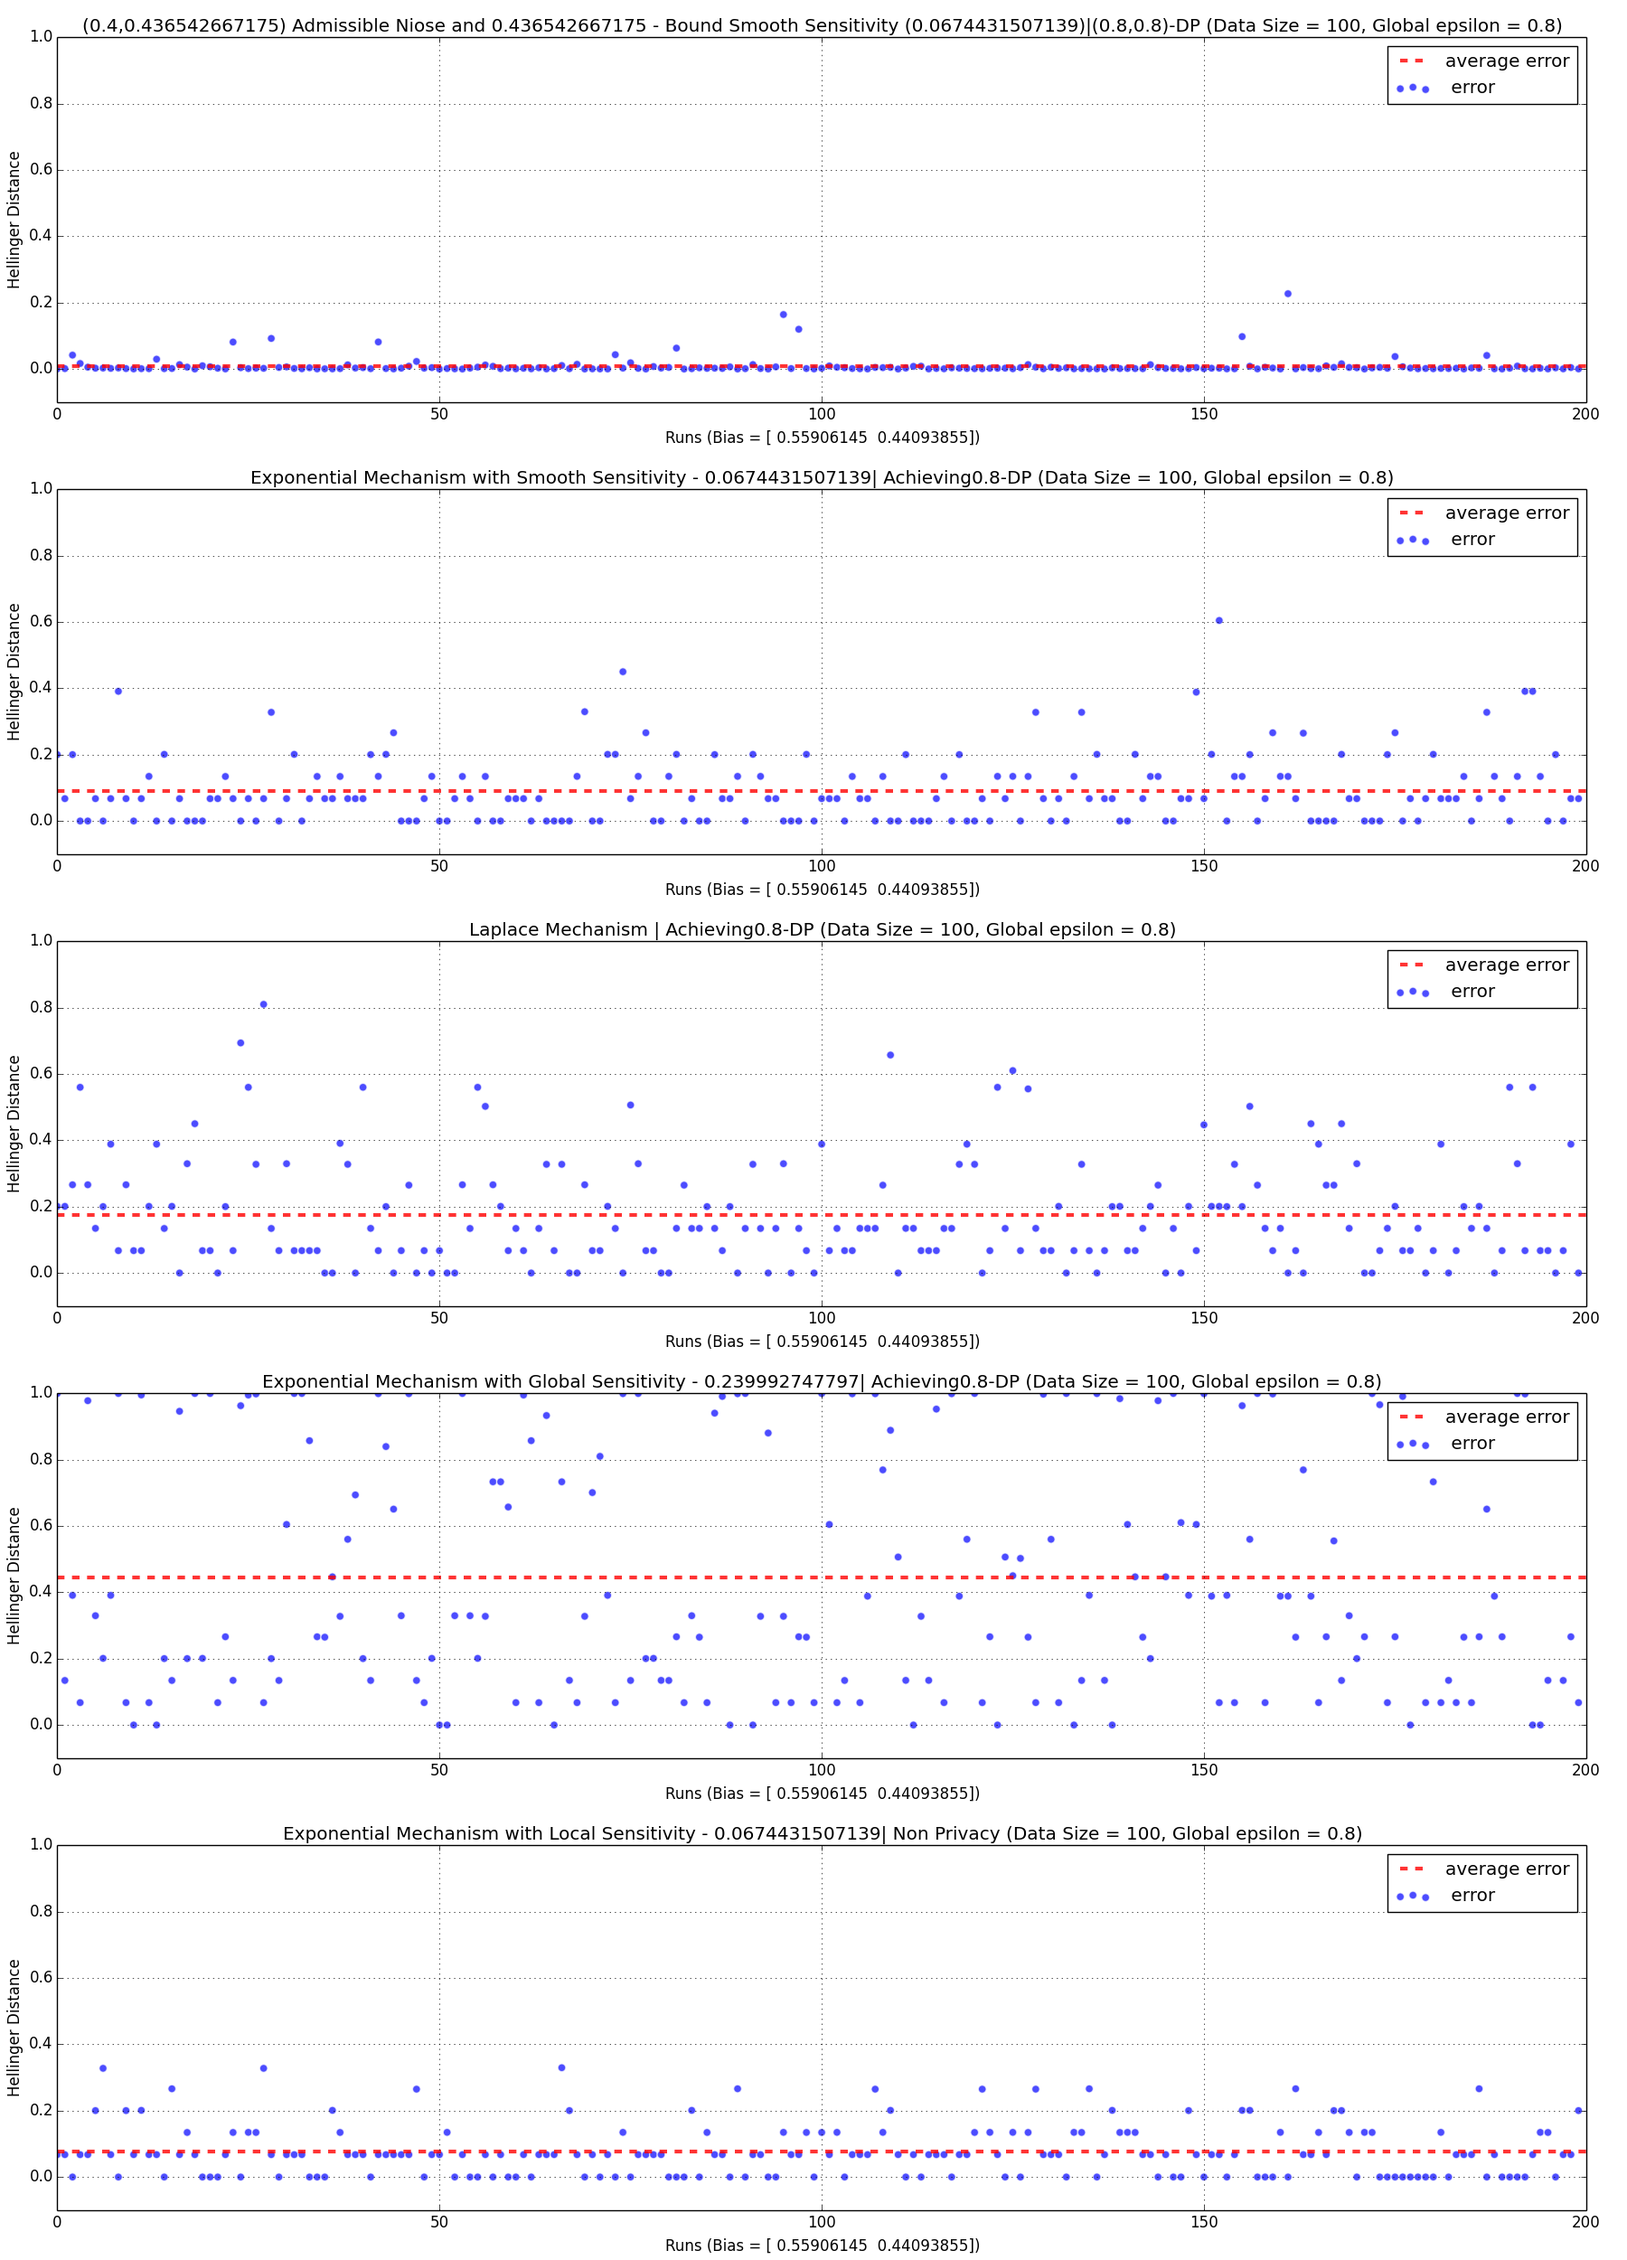
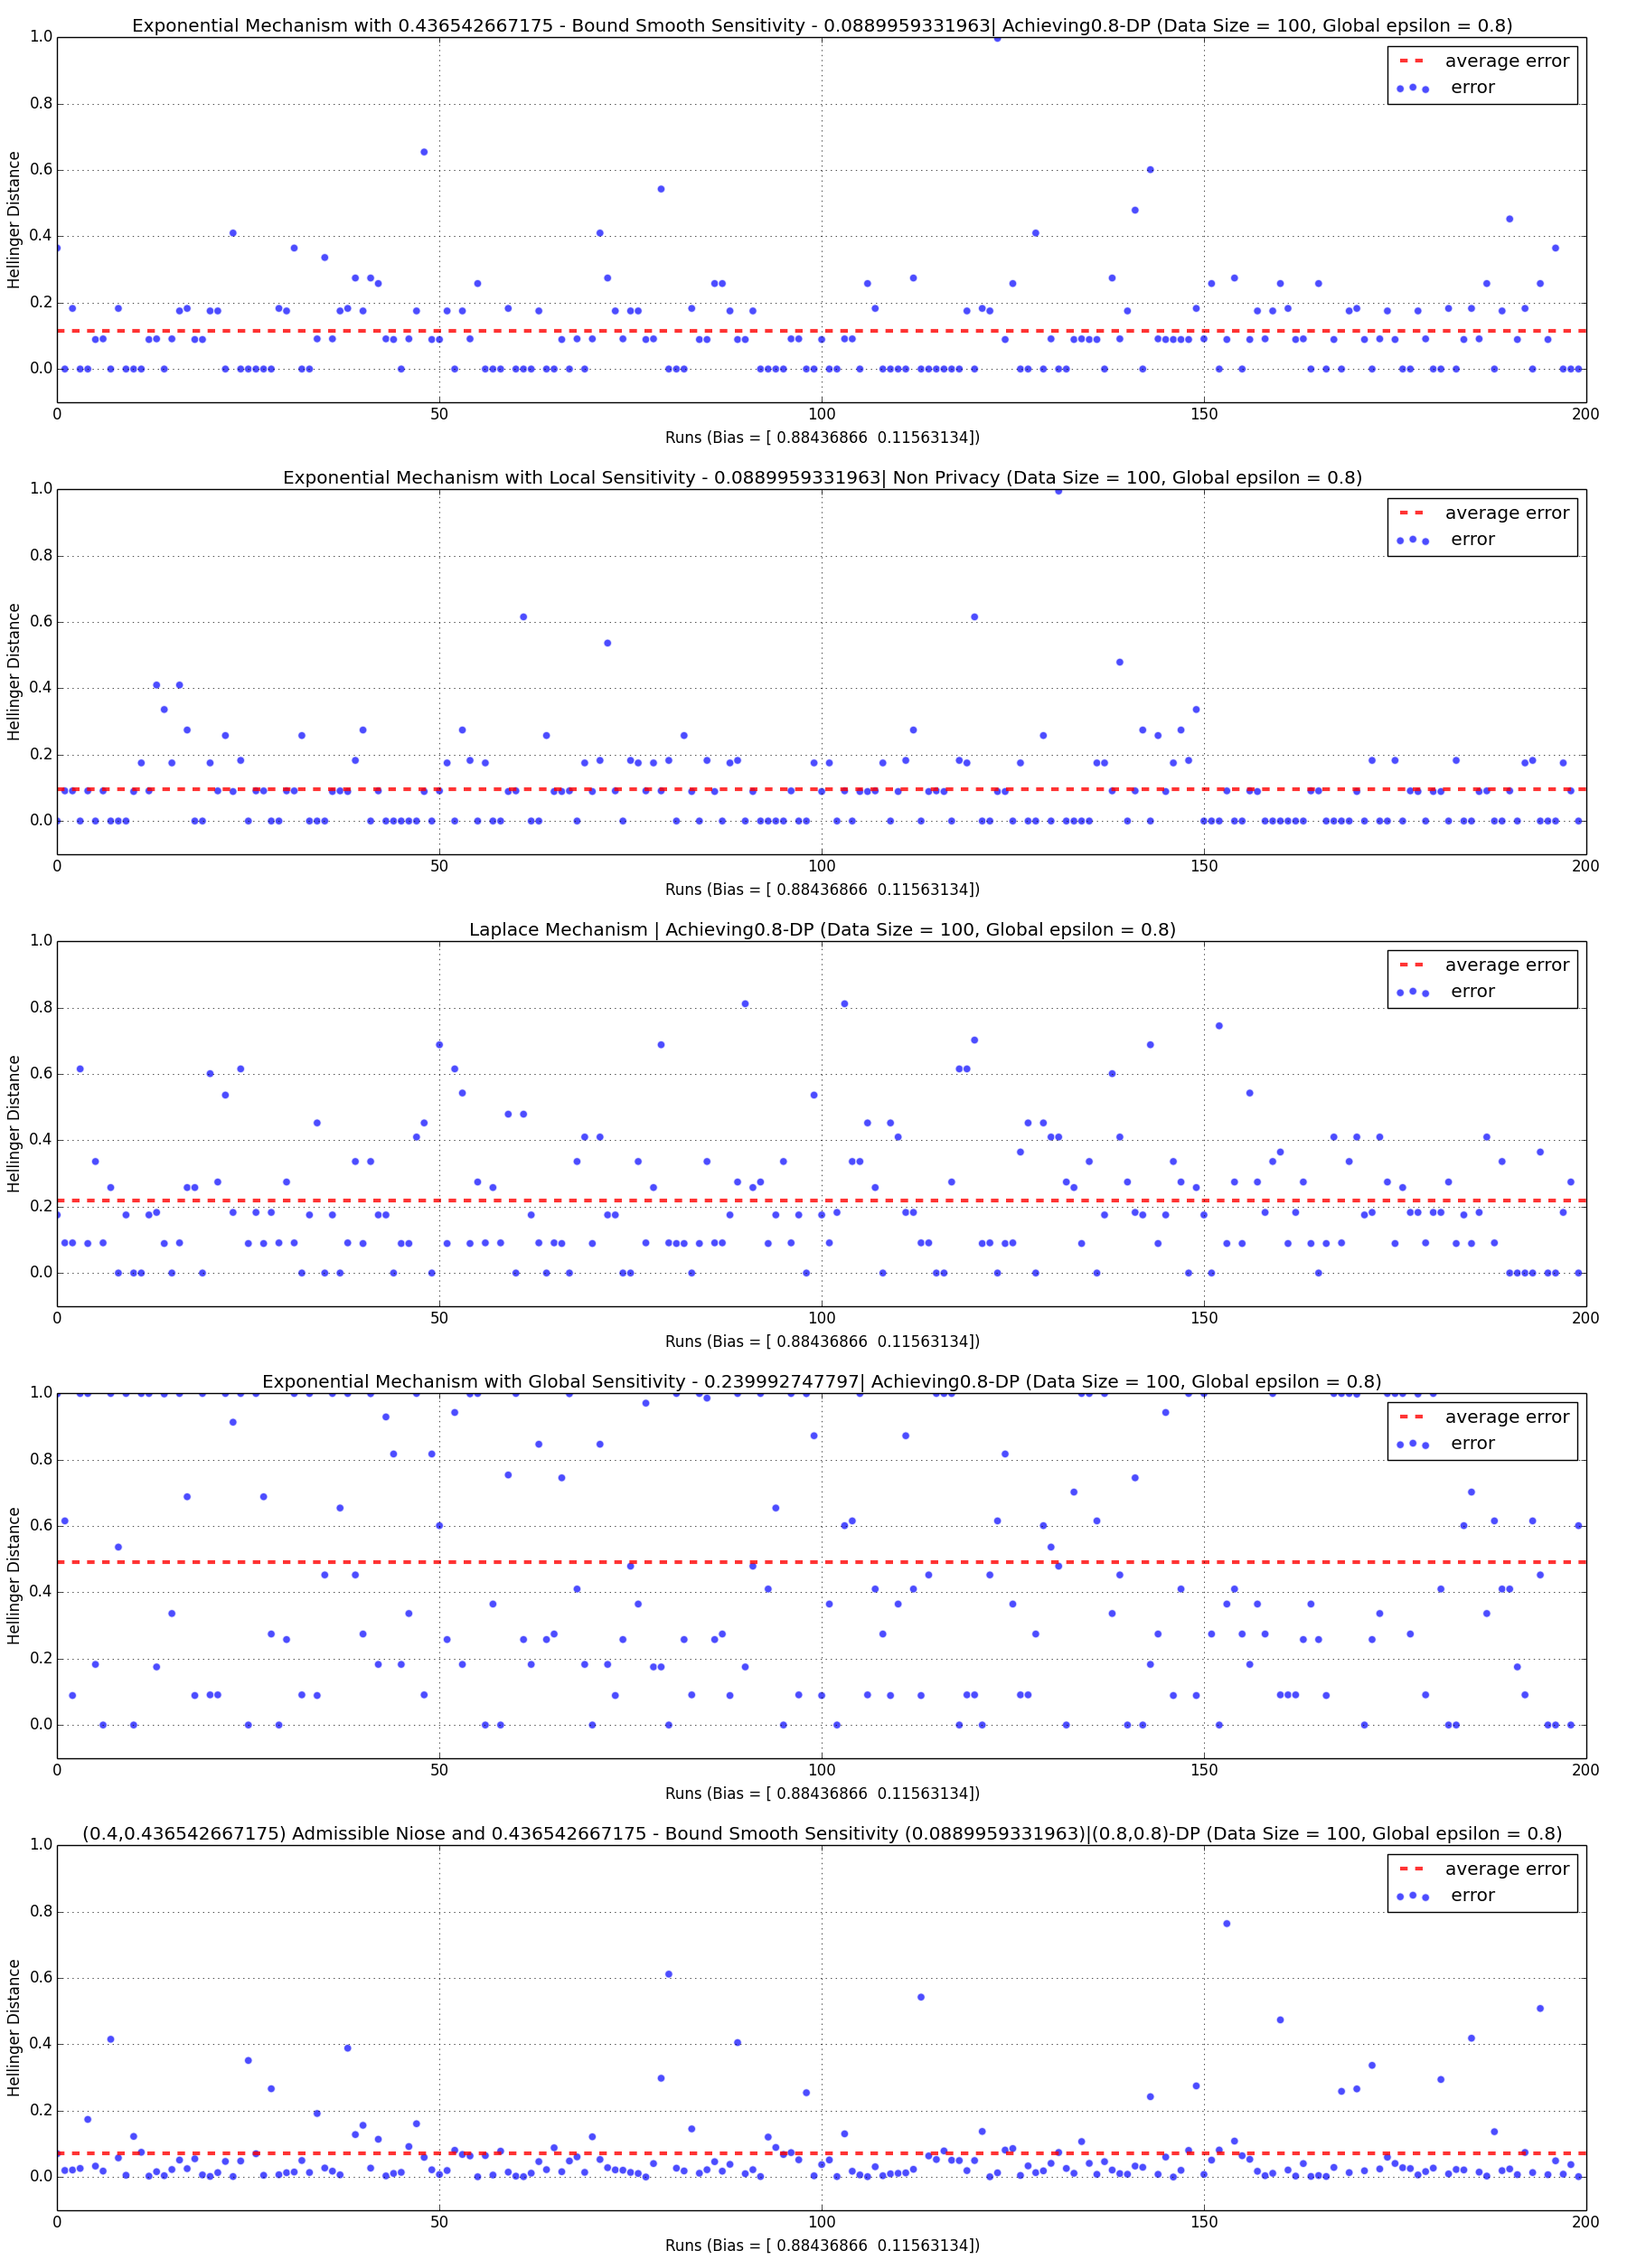
update on smooth sensitivity results

diff --git a/dp_bayesian_inference_model_with_dirichlet_prior.py b/dp_bayesian_inference_model_with_dirichlet_prior.py
@@ -199,7 +199,7 @@ class BayesInferwithDirPrior(object):
 		self._keys.append(key3)
 		print str(time.clock() - start) + "seconds."	
 
-		key2 = "Exponential Mechanism with Smooth Sensitivity - " + str(self._SS_Hamming) + "| Achieving" + str(self._epsilon) + "-DP"
+		key2 = "Exponential Mechanism with " + str(beta) + " - Bound Smooth Sensitivity - " + str(self._SS_Hamming) + "| Achieving" + str(self._epsilon) + "-DP"
 		self._accuracy[key2] = []
 		self._keys.append(key2)
 
